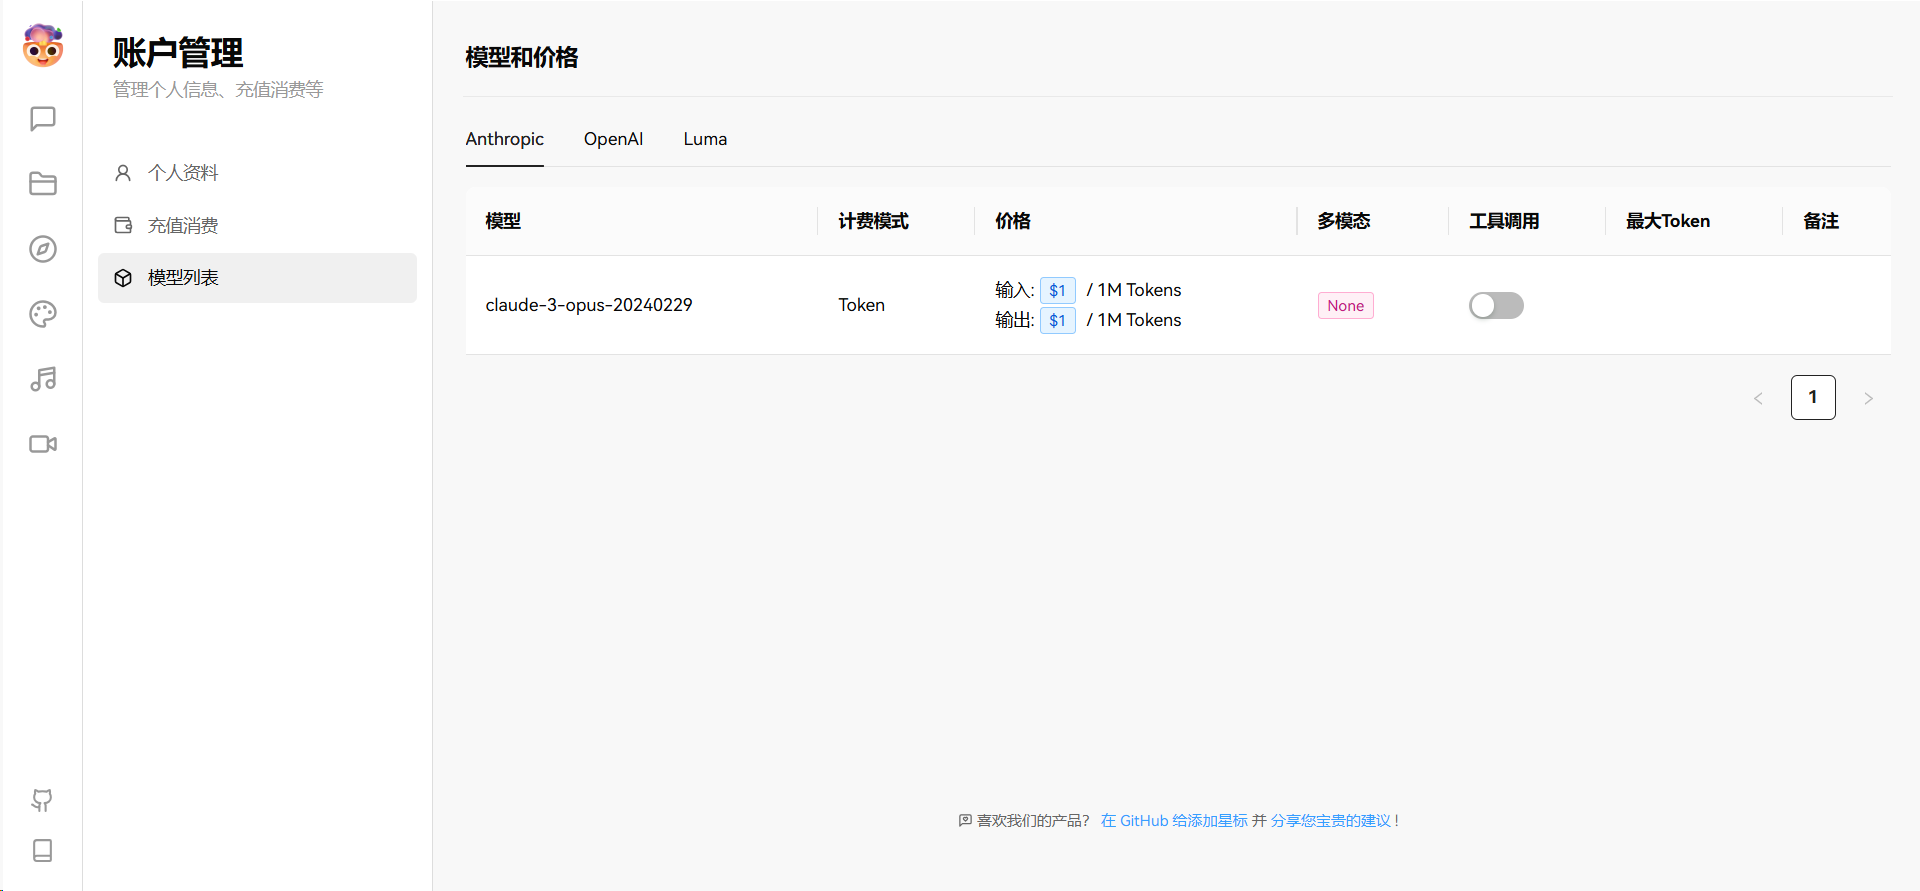
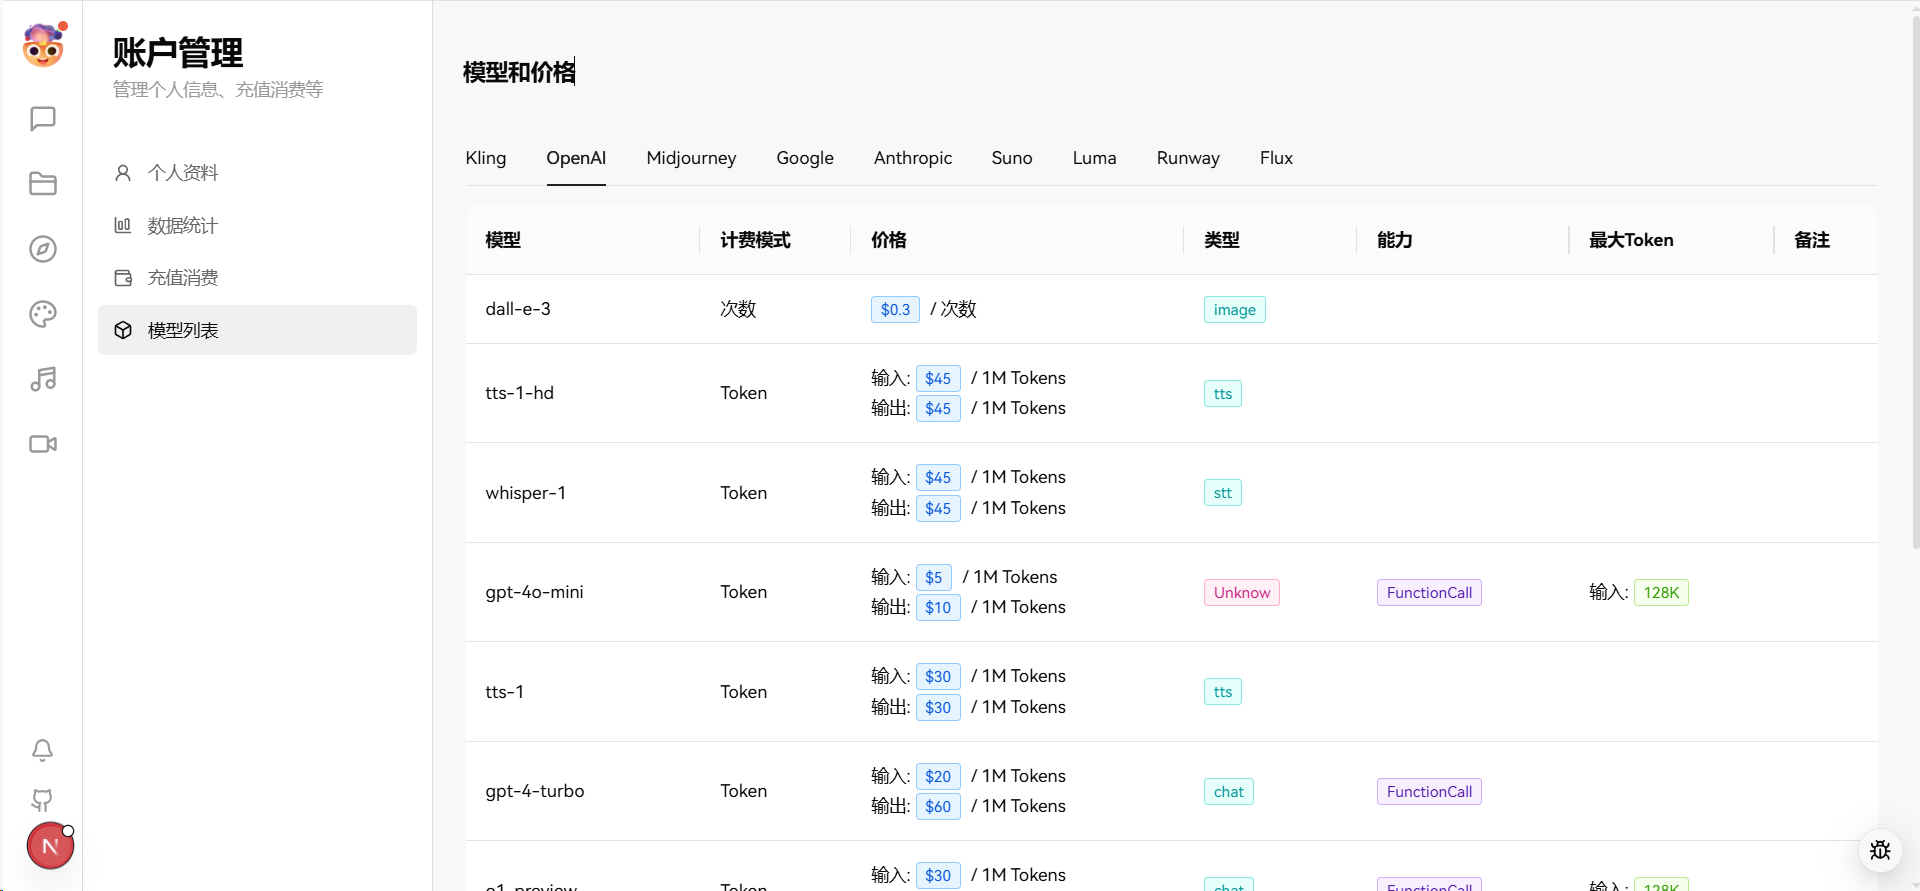
1.完成1.0.0版本，包括后台管理。

diff --git a/README.md b/README.md
@@ -8,11 +8,11 @@
   
 ### 版本介绍
   - 版本号：latest
-  - 更新时间： 2025.02.27
+  - 更新时间： 2025.03.30
   - 演示站点：https://lobe.annyun.cn ，需要自备key，或从上面的中转接口里获取。
 
 ### 项目介绍
-- 基于[lobe-chat](https://github.com/lobehub/lobe-chat)，并定期同步原版代码，最近同步时间： 2025.02.27
+- 基于[lobe-chat](https://github.com/lobehub/lobe-chat)，并定期同步原版代码，最近同步时间： 2025.03.27
 - **增加绘图面板**，更全面的参数配置，更好看的界面, midjourney、dall-e-3、Flux、stable-diffusion(待实现)。
   - **支持midjourney-proxy**
   - **支持midjourney-proxy-plus**，目前已支持大部分功能：
@@ -82,10 +82,12 @@
   - 充值、兑换和消费记录查询
   - 模型和价格管理
   - 微信支付、易支付、虎皮椒支付
+  - 聊天记录、画图记录、音乐记录、视频记录管理。
+  - 通知公告
 
 ### 开发计划
-- 1.【开发ing】后台管理（包含用户登录注册、充值扣费、聊天记录管理）。
-- 2.【计划】ideogram、viggle。
+- 1.【计划】数字人。
+- 1.【计划】发现页展示用户创作的图片、音乐、视频。
 
 ### 纯前端启动应用（浏览器端默认使用pglite数据库）
 ```shell
@@ -96,19 +98,23 @@ docker run -d -p 3210:3210  registry.cn-hangzhou.aliyuncs.com/ann-chat/lobe-chat
 如果需要导出以前localstore里的数据，[参考方案](https://github.com/lobehub/lobe-chat/issues/5131)
 
 ### 带后台管理版启动（服务端数据库版）
-1. 下载docker-compose.yml
+1. 下载docker-compose.yml, 国内下载不了的话，可以手动复制内容。
 ```shell
 curl -o docker-compose.yml https://raw.githubusercontent.com/vual/lobe-chat-pro/refs/heads/main/docker/docker-compose.yml
 ```
-2. 编辑docker-compose.yml，按需修改里面的环境变量参数
+2. 下载.env，国内下载不了的话，可以手动复制内容。
 ```shell
-vi docker-compose.yml
+curl -o .env https://raw.githubusercontent.com/vual/lobe-chat-pro/refs/heads/main/docker/.env
 ```
-3. 拉取镜像
+3. 编辑.env，按说明修改里面的环境变量参数，如果需要修改端口，可以编辑docker-compose.yml里的ports参数，只能修改冒号前面的数字。
+```shell
+vi .env
+```
+4. 拉取镜像
 ```shell
 docker-compose pull
 ```
-4. 启动容器
+5 启动容器
 ```shell
 docker-compose up -d
 ```
@@ -116,6 +122,14 @@ docker-compose up -d
 启动后，
 - 用户端：http://{启动机器的ip}:3210，
 - 管理端：http://{启动机器的ip}:8888， 账号：admin，密码：123456
+
+### 配置域名转发
+- 端口3210，用户端
+- 端口8888，管理端
+- 端口9000，minio
+
+### 其它
+- 如果使用minio，则启动后，需要登录进去手动创建bucket，bucket名字为annyun-lobe，如果你改了bucket名称，则改成实际的。
 
 ### 截图
 ![img1](/images/img1.png)
@@ -125,8 +139,8 @@ docker-compose up -d
 ![img5](/images/img5.png)
 ![img6](/images/img6.png)
 ![img7](/images/img7.jpg)
-![img8](/images/img8.jpg)
-![img9](/images/img9.jpg)
+![img8](/images/img8.png)
+![img9](/images/img9.png)
 ![img10](/images/img10.png)
 
 ### 交流
